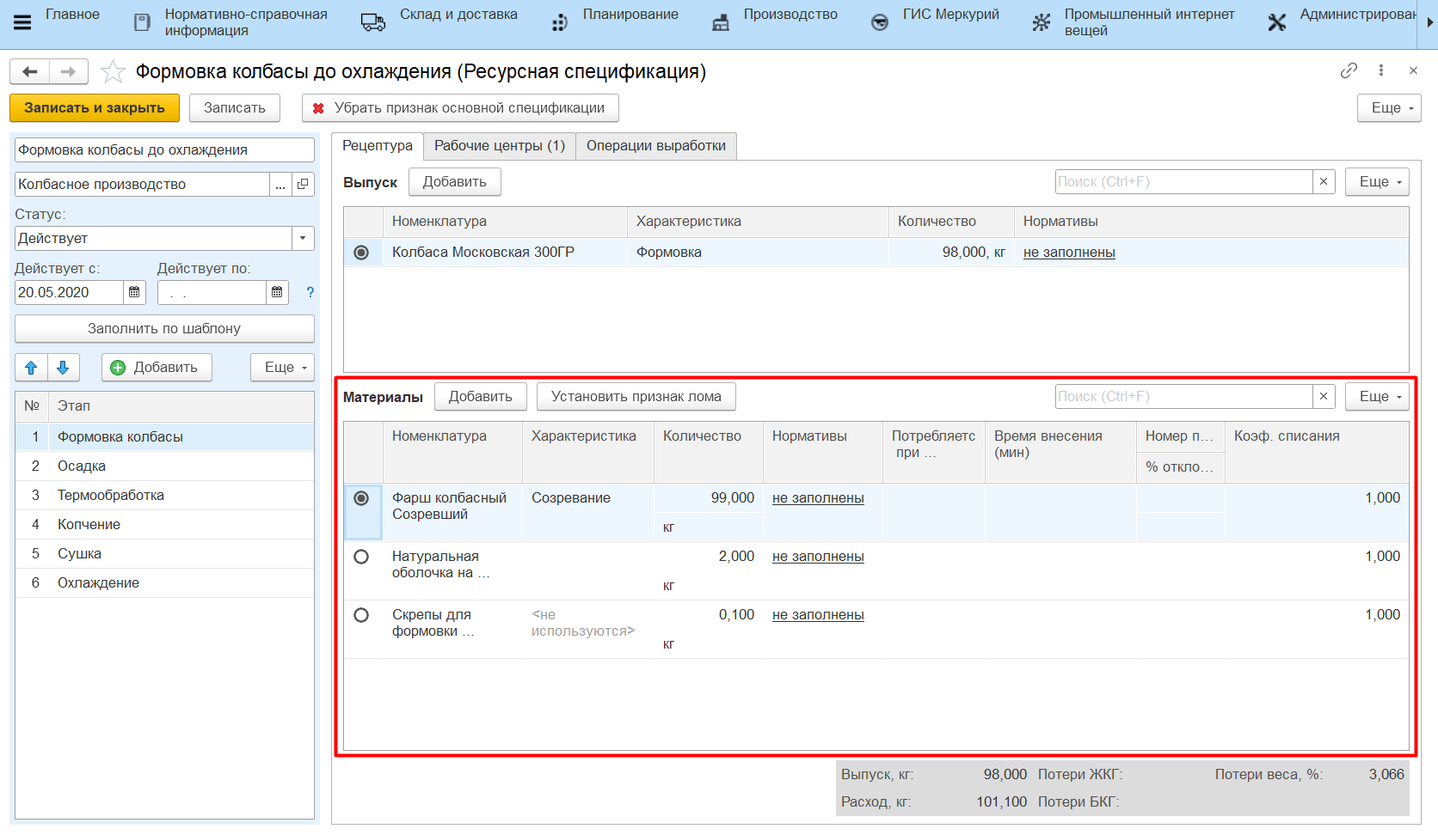
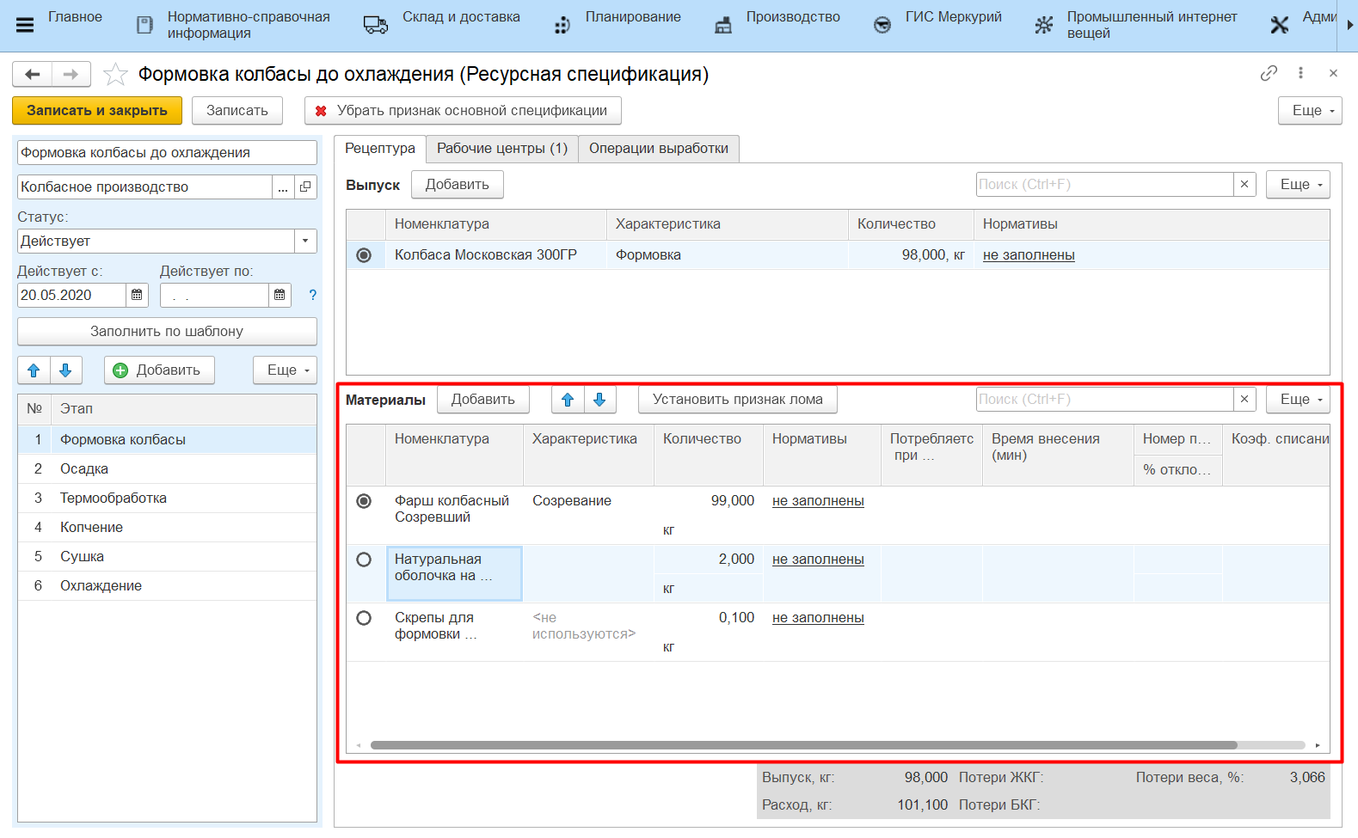
new: релиз справки 2.0.20.1

diff --git a/docs/Manufacture/Meat/CommonInformation/Handbooks/ResourceSpecTree/ResourceSpecTree.md b/docs/Manufacture/Meat/CommonInformation/Handbooks/ResourceSpecTree/ResourceSpecTree.md
@@ -1,0 +1,70 @@
+# Дерево ресурсных спецификаций
+
+После того, как все спецификации созданы, они сохраняются в статусе *"В разработке"*, затем их необходимо утвердить и назначить основными. Это можно сделать сразу на форме работы со спецификацией либо с помощью обработки **"Дерево ресурсных спецификаций"**. Перейти к данной обработке можно из раздела "Производство" -> "Учет производства":
+
+![](ResourceSpecTree.assets/image.png)
+
+Также обработка доступна из справочника **"Ресурсные спецификации"**:
+
+![](ResourceSpecTree.assets/image-1.png)
+
+Обработка позволяет проанализировать цепочку спецификаций, начиная от выбранной продукции, проверить объемы выпусков по спецификациям и выбрать те спецификации, которые нужно назначить действующими и основными. Также можно рассчитать количество материалов, которое должно быть потрачено на выпуск продукции по основной цепочке спецификаций.
+
+Первым шагом нужно выбрать номенклатуру и характеристику (если ведется учет по характеристикам), для которой нужно построить дерево спецификаций. После выбора дерево будет построено автоматически.
+
+![](ResourceSpecTree.assets/image-2.png)
+
+# Вкладка "Ресурсные спецификации"
+
+В табличной части показывается:
+
+- Спецификация;
+- Статус спецификации;
+- Период действия спецификации;
+- Номенклатура выпуска по спецификации;
+- Объем выпускаемой номенклатуры по спецификации, единица измерения.
+
+Для дерева можно настроить фильтры:
+
+- Не показывать закрытые - отбор по действующим спецификациям и спецификациям в разработке;
+- Не показывать в разработке - отбор по действующим спецификациям;
+- Показывать только основные - отбор по основным спецификациям.
+
+![](ResourceSpecTree.assets/image-3.png)
+![](ResourceSpecTree.assets/image-4.png)
+
+Цепочку спецификаций также можно сворачивать до разных уровней:
+
+![](ResourceSpecTree.assets/image-5.png)
+
+На последнем примере видно, что для одной и той же номенклатуры выпуска (Колбаса Московская 300 ГР / Охлаждение) действуют две спецификации, при этом только одна из них является основной. Для каждой из этих спецификаций построена своя цепочка разузлования по спецификациям полуфабрикатов. 
+
+Для того, чтобы назначить спецификацию, которая находится в статусе *"В разработке"*, действующей, нужно дважды кликнуть по полю в колонке "Действует" и поставить галочку. Таким же образом можно назначить спецификацию основной. Затем нужно нажать **"Сохранить"**. После сохранения статус спецификации сменится, и дерево будет обновлено. 
+
+![](ResourceSpecTree.assets/1.gif)
+
+!!! info "Важно"
+    - Только действующую спецификацию можно назначить основной;
+    - Спецификация начнет действовать с даты, которая указана в колонке "Период действия";
+    - Можно утверждать сразу несколько спецификаций. Для этого отметьте галочками все спецификации, которые нужно назначить действующими, а затем сохраните;
+    - Для одной номенклатуры выпуска может быть задана только одна основная спецификация:
+
+![](ResourceSpecTree.assets/2.gif)
+
+# Вкладка "Используемые материалы"
+
+В табличной части показывается:
+
+- Какие номенклатуры входят в цепочку изготовления продукции на всех уровнях (прослеживаемость по материалам собирается только по основным спецификациям);
+- Количество материала.
+
+![](ResourceSpecTree.assets/image-6.png)
+
+Для того, чтобы пересчитать количество материалов на другой объем выпуска, нужно указать плановый объем выпуска в поле *"Рассчитать от"*, тогда дерево будет пересчитано. Вернуться к изначальному варианту дерева можно по кнопке "Х" в поле *"Рассчитать от"*.
+
+![](ResourceSpecTree.assets/image-7.png)
+
+Отбор по типу воспроизводства "Покупка" покажет только те материалы, которые закупаются для производства выбранной продукции.
+
+![](ResourceSpecTree.assets/image-8.png)
+

diff --git a/docs/Manufacture/Milk/CommonInformation/Handbooks/ResourceSpecTree/ResourceSpecTree.md b/docs/Manufacture/Milk/CommonInformation/Handbooks/ResourceSpecTree/ResourceSpecTree.md
@@ -1,0 +1,70 @@
+# Дерево ресурсных спецификаций
+
+После того, как все спецификации созданы, они сохраняются в статусе *"В разработке"*, затем их необходимо утвердить и назначить основными. Это можно сделать сразу на форме работы со спецификацией либо с помощью обработки **"Дерево ресурсных спецификаций"**. Перейти к данной обработке можно из раздела "Производство" -> "Учет производства":
+
+![](ResourceSpecTree.assets/image.png)
+
+Также обработка доступна из справочника **"Ресурсные спецификации"**:
+
+![](ResourceSpecTree.assets/image-1.png)
+
+Обработка позволяет проанализировать цепочку спецификаций, начиная от выбранной продукции, проверить объемы выпусков по спецификациям и выбрать те спецификации, которые нужно назначить действующими и основными. Также можно рассчитать количество материалов, которое должно быть потрачено на выпуск продукции по основной цепочке спецификаций.
+
+Первым шагом нужно выбрать номенклатуру и характеристику (если ведется учет по характеристикам), для которой нужно построить дерево спецификаций. После выбора дерево будет построено автоматически.
+
+![](ResourceSpecTree.assets/image-2.png)
+
+# Вкладка "Ресурсные спецификации"
+
+В табличной части показывается:
+
+- Спецификация;
+- Статус спецификации;
+- Период действия спецификации;
+- Номенклатура выпуска по спецификации;
+- Объем выпускаемой номенклатуры по спецификации, единица измерения.
+
+Для дерева можно настроить фильтры:
+
+- Не показывать закрытые - отбор по действующим спецификациям и спецификациям в разработке;
+- Не показывать в разработке - отбор по действующим спецификациям;
+- Показывать только основные - отбор по основным спецификациям.
+
+![](ResourceSpecTree.assets/image-3.png)
+![](ResourceSpecTree.assets/image-4.png)
+
+Цепочку спецификаций также можно сворачивать до разных уровней:
+
+![](ResourceSpecTree.assets/image-5.png)
+
+На последнем примере видно, что для одной и той же номенклатуры выпуска (Колбаса Московская 300 ГР / Охлаждение) действуют две спецификации, при этом только одна из них является основной. Для каждой из этих спецификаций построена своя цепочка разузлования по спецификациям полуфабрикатов. 
+
+Для того, чтобы назначить спецификацию, которая находится в статусе *"В разработке"*, действующей, нужно дважды кликнуть по полю в колонке "Действует" и поставить галочку. Таким же образом можно назначить спецификацию основной. Затем нужно нажать **"Сохранить"**. После сохранения статус спецификации сменится, и дерево будет обновлено. 
+
+![](ResourceSpecTree.assets/1.gif)
+
+!!! info "Важно"
+    - Только действующую спецификацию можно назначить основной;
+    - Спецификация начнет действовать с даты, которая указана в колонке "Период действия";
+    - Можно утверждать сразу несколько спецификаций. Для этого отметьте галочками все спецификации, которые нужно назначить действующими, а затем сохраните;
+    - Для одной номенклатуры выпуска может быть задана только одна основная спецификация:
+
+![](ResourceSpecTree.assets/2.gif)
+
+# Вкладка "Используемые материалы"
+
+В табличной части показывается:
+
+- Какие номенклатуры входят в цепочку изготовления продукции на всех уровнях (прослеживаемость по материалам собирается только по основным спецификациям);
+- Количество материала.
+
+![](ResourceSpecTree.assets/image-6.png)
+
+Для того, чтобы пересчитать количество материалов на другой объем выпуска, нужно указать плановый объем выпуска в поле *"Рассчитать от"*, тогда дерево будет пересчитано. Вернуться к изначальному варианту дерева можно по кнопке "Х" в поле *"Рассчитать от"*.
+
+![](ResourceSpecTree.assets/image-7.png)
+
+Отбор по типу воспроизводства "Покупка" покажет только те материалы, которые закупаются для производства выбранной продукции.
+
+![](ResourceSpecTree.assets/image-8.png)
+

diff --git a/docs/Manufacture/Cheese/CommonInformation/Handbooks/ResourceSpecTree/ResourceSpecTree.md b/docs/Manufacture/Cheese/CommonInformation/Handbooks/ResourceSpecTree/ResourceSpecTree.md
@@ -1,0 +1,70 @@
+# Дерево ресурсных спецификаций
+
+После того, как все спецификации созданы, они сохраняются в статусе *"В разработке"*, затем их необходимо утвердить и назначить основными. Это можно сделать сразу на форме работы со спецификацией либо с помощью обработки **"Дерево ресурсных спецификаций"**. Перейти к данной обработке можно из раздела "Производство" -> "Учет производства":
+
+![](ResourceSpecTree.assets/image.png)
+
+Также обработка доступна из справочника **"Ресурсные спецификации"**:
+
+![](ResourceSpecTree.assets/image-1.png)
+
+Обработка позволяет проанализировать цепочку спецификаций, начиная от выбранной продукции, проверить объемы выпусков по спецификациям и выбрать те спецификации, которые нужно назначить действующими и основными. Также можно рассчитать количество материалов, которое должно быть потрачено на выпуск продукции по основной цепочке спецификаций.
+
+Первым шагом нужно выбрать номенклатуру и характеристику (если ведется учет по характеристикам), для которой нужно построить дерево спецификаций. После выбора дерево будет построено автоматически.
+
+![](ResourceSpecTree.assets/image-2.png)
+
+# Вкладка "Ресурсные спецификации"
+
+В табличной части показывается:
+
+- Спецификация;
+- Статус спецификации;
+- Период действия спецификации;
+- Номенклатура выпуска по спецификации;
+- Объем выпускаемой номенклатуры по спецификации, единица измерения.
+
+Для дерева можно настроить фильтры:
+
+- Не показывать закрытые - отбор по действующим спецификациям и спецификациям в разработке;
+- Не показывать в разработке - отбор по действующим спецификациям;
+- Показывать только основные - отбор по основным спецификациям.
+
+![](ResourceSpecTree.assets/image-3.png)
+![](ResourceSpecTree.assets/image-4.png)
+
+Цепочку спецификаций также можно сворачивать до разных уровней:
+
+![](ResourceSpecTree.assets/image-5.png)
+
+На последнем примере видно, что для одной и той же номенклатуры выпуска (Смесь нормализованная 50%) действуют две спецификации, при этом только одна из них является основной. Для каждой из этих спецификаций построена своя цепочка разузлования по спецификациям полуфабрикатов. 
+
+Для того, чтобы назначить спецификацию, которая находится в статусе *"В разработке"*, действующей, нужно дважды кликнуть по полю в колонке "Действует" и поставить галочку. Таким же образом можно назначить спецификацию основной. Затем нужно нажать **"Сохранить"**. После сохранения статус спецификации сменится, и дерево будет обновлено. 
+
+![](ResourceSpecTree.assets/1.gif)
+
+!!! info "Важно"
+    - Только действующую спецификацию можно назначить основной;
+    - Спецификация начнет действовать с даты, которая указана в колонке "Период действия";
+    - Можно утверждать сразу несколько спецификаций. Для этого отметьте галочками все спецификации, которые нужно назначить действующими, а затем сохраните;
+    - Для одной номенклатуры выпуска может быть задана только одна основная спецификация:
+
+![](ResourceSpecTree.assets/2.gif)
+
+# Вкладка "Используемые материалы"
+
+В табличной части показывается:
+
+- Какие номенклатуры входят в цепочку изготовления продукции на всех уровнях (прослеживаемость по материалам собирается только по основным спецификациям);
+- Количество материала.
+
+![](ResourceSpecTree.assets/image-6.png)
+
+Для того, чтобы пересчитать количество материалов на другой объем выпуска, нужно указать плановый объем выпуска в поле *"Рассчитать от"*, тогда дерево будет пересчитано. Вернуться к изначальному варианту дерева можно по кнопке "Х" в поле *"Рассчитать от"*.
+
+![](ResourceSpecTree.assets/image-7.png)
+
+Отбор по типу воспроизводства "Покупка" покажет только те материалы, которые закупаются для производства выбранной продукции.
+
+![](ResourceSpecTree.assets/image-8.png)
+

diff --git a/docs/Manufacture/Milk/CommonInformation/Handbooks/ResourceSpecifications/ResourceSpecifications.md b/docs/Manufacture/Milk/CommonInformation/Handbooks/ResourceSpecifications/ResourceSpecifications.md
@@ -55,20 +55,20 @@
 ## Вкладка "Рецептура"
 ### Табличная часть "Выходные изделия"
 
-![](ResourceSpecifications.assets/1.png)
+![](ResourceSpecifications.assets/image-2.png)
 
-Содержит перечень выходных изделий этапа (**одно** основное изделие, сколько угодно побочных изделий и возвратных отходов) и их количество. Нормативное содержание жира и белка выходного изделия заполняется по необходимости. Доля стоимости рассчитывается автоматически; если выпуск на этапе один, то можно указать "1" (единицу).
+Содержит перечень выходных изделий этапа (**одно** основное изделие, сколько угодно побочных изделий и возвратных отходов) и их количество. Нормативное содержание жира и белка выходного изделия заполняется по необходимости.
 
 Если система открыта с лицензией на расчет себестоимости и если использование механизма расчета себестоимости включено в [настройках учета](../SettingOfAccounting/SettingOfAccounting.md), то в табличной части также появится колонка "Доля стоимости". Доля стоимости рассчитывается автоматически; если выпуск на этапе один, то можно указать "1" (единицу).
 
 ### Табличная часть "Материалы"
 
-![](ResourceSpecifications.assets/2.png)
+![](ResourceSpecifications.assets/image-3.png)
 
 - Номенклатура/Характеристика/Количество - на каждом этапе может быть только один основной материал. Например, на этапе варки сыра - это смесь;
 - БКГ, ЖКГ - определяются в рамках каждой номенклатуры по ссылке *"Нормативы"*. Затем, соответственно, подтягиваются в спецификацию, по ним считается нормативное количество потерь в ЖКГ и БКГ для данного этапа:
 
-![](ResourceSpecifications.assets/3.png)
+![](ResourceSpecifications.assets/image-4.png)
 
 - Потребляется при выпуске - если выпусков может быть несколько на этапе, и при этом на эти выпуски по норме тратятся разные материалы, то можно указать все материалы, разделив их потребление с использованием данного столбца.
 - Статья затрат - сырьевая статья затрат, по которой материал будет посчитан при расчете сырьевой себестоимости.
@@ -76,6 +76,9 @@
 - Время внесения (мин) - определяет нормативное время внесения ингредиента, считается от начала этапа. Чтобы сравнивать фактическое с нормативным, у партии продукции должно быть заполнено время начала. Заполнение происходит через АРМ "Работа с заданиями" при работе с ТСД (пользователь с ролью "Работа с ТСД").
 - Коэф. списания - определяет, в каком соотношении списывать вторую единицу измерения материала на вторую единицу измерения выпуска. По умолчанию всегда равен 1. Изменить его можно только в случае, если и у материала, и у выпуска есть доп.единицы измерения. 
 - % отклонения - возможный процент отклонения от указанного количества материала при выпуске указанного объема продукции этапа.
+
+!!! info ""
+    Стрелочками на панели материалов можно менять порядок строк. При выполнении наборки по рецептуре пользователь будет видеть строки материалов, которые нужно взвесить, по заданному порядку: первым всегда показывается основной материал, далее по установленному порядку из таблицы материалов в спецификации.
 
 ## Вкладка "Рабочие центры"
 

diff --git a/docs/Manufacture/Cheese/CommonInformation/Handbooks/ResourceSpecifications/ResourceSpecifications.md b/docs/Manufacture/Cheese/CommonInformation/Handbooks/ResourceSpecifications/ResourceSpecifications.md
@@ -36,7 +36,7 @@
 !!! info "Важно"
     Дата окончания действия спецификации **не включается** в период её действия. Например, если спецификация действует по 31.01, то последний день, когда с ней можно работать - 30.01 до 23:59.
 
-![](ResourceSpecifications.assets/7.png) 
+![](ResourceSpecifications.assets/7.png)
 
 ## Табличная часть "Этапы"
 
@@ -55,7 +55,7 @@
 ## Вкладка "Рецептура"
 ### Табличная часть "Выходные изделия"
 
-![](ResourceSpecifications.assets/1.png)
+![](ResourceSpecifications.assets/image-2.png)
 
 Содержит перечень выходных изделий этапа (**одно** основное изделие, сколько угодно побочных изделий и возвратных отходов) и их количество. Нормативное содержание жира и белка выходного изделия заполняется по необходимости. 
 
@@ -63,12 +63,12 @@
 
 ### Табличная часть "Материалы"
 
-![](ResourceSpecifications.assets/2.png)
+![](ResourceSpecifications.assets/image-3.png)
 
 - Номенклатура/Характеристика/Количество - на каждом этапе может быть только один основной материал. Например, на этапе варки сыра - это смесь;
 - БКГ, ЖКГ - определяются в рамках каждой номенклатуры по ссылке *"Нормативы"*. Затем, соответственно, подтягиваются в спецификацию, по ним считается нормативное количество потерь в ЖКГ и БКГ для данного этапа:
 
-![](ResourceSpecifications.assets/3.png)
+![](ResourceSpecifications.assets/image-4.png)
 
 - Потребляется при выпуске - если выпусков может быть несколько на этапе, и при этом на эти выпуски по норме тратятся разные материалы, то можно указать все материалы, разделив их потребление с использованием данного столбца.
 - Статья затрат - сырьевая статья затрат, по которой материал будет посчитан при расчете сырьевой себестоимости (доступно при включенном механизме расчета себестоимости).
@@ -76,6 +76,9 @@
 - Время внесения (мин) - определяет нормативное время внесения ингредиента, считается от начала этапа. Чтобы сравнивать фактическое с нормативным, у партии продукции должно быть заполнено время начала. Пока что применяется только для сыра на этапе варки, заполнение происходит через АРМ "Работа с заданиями" через ТСД (пользователь с ролью "Работа с ТСД"). Пример - ["Учет времени внесения ингредиентов"](../../../SemiHardCheese/CookingCheese/Ingredients/AccountingTSD/AccountingTSD.md).
 - Коэф. списания - определяет, в каком соотношении списывать вторую единицу измерения материала на вторую единицу измерения выпуска. По умолчанию всегда равен 1. Изменить его можно только в случае, если и у материала, и у выпуска есть доп.единицы измерения. 
 - % отклонения - возможный процент отклонения от указанного количества материала при выпуске указанного объема продукции этапа.
+
+!!! info ""
+    Стрелочками на панели материалов можно менять порядок строк. При выполнении наборки по рецептуре пользователь будет видеть строки материалов, которые нужно взвесить, по заданному порядку: первым всегда показывается основной материал, далее по установленному порядку из таблицы материалов в спецификации.
 
 ## Вкладка "Рабочие центры"
 

diff --git a/docs/Manufacture/Meat/CommonInformation/Handbooks/ResourceSpecifications/ResourceSpecifications.md b/docs/Manufacture/Meat/CommonInformation/Handbooks/ResourceSpecifications/ResourceSpecifications.md
@@ -73,6 +73,9 @@
 - Коэф. списания - определяет, в каком соотношении списывать вторую единицу измерения материала на вторую единицу измерения выпуска. По умолчанию всегда равен 1. Изменить его можно только в случае, если и у материала, и у выпуска есть доп.единицы измерения. 
 - % отклонения - возможный процент отклонения от указанного количества материала при выпуске указанного объема продукции этапа.
 
+!!! info ""
+    Стрелочками на панели материалов можно менять порядок строк. При выполнении наборки по рецептуре пользователь будет видеть строки материалов, которые нужно взвесить, по заданному порядку: первым всегда показывается основной материал, далее по установленному порядку из таблицы материалов в спецификации.
+
 ## Вкладка "Рабочие центры"
 
 Для каждого из созданных этапов на вкладке указывается перечень рабочих центров, на которых выпускается продукция из списка выпусков этапа.

diff --git a/docs/Manufacture/Milk/MilkReceiving/LaboratoryAnalysisOfMilk/LaboratoryAnalysisOfMilk.md b/docs/Manufacture/Milk/MilkReceiving/LaboratoryAnalysisOfMilk/LaboratoryAnalysisOfMilk.md
@@ -33,7 +33,7 @@
 
 - В случае обнаружения некачественного молока в какой-либо из секций машины, при заполнении информации по этой секции установить галочку **"Возврат поставщику"**:
 
-![](LaboratoryAnalysisOfMilk.assets/1.png)
+![](LaboratoryAnalysisOfMilk.assets/image.png)
 
 - Нажать **"Записать"**. Даже если выведется сообщение о том, что сорт не удалось определить, при записи данные сохранятся.
 - При необходимости можно распечатать **"Акт о расхождениях"**, куда подтянется разница по заявленным и фактическим показателям по секциям:

diff --git a/docs/Manufacture/Cheese/CommonInformation/Handbooks/readme.md b/docs/Manufacture/Cheese/CommonInformation/Handbooks/readme.md
@@ -6,3 +6,4 @@
 - [Рабочие центры и склады](WorkCentresAndWarehouses/WorkCentresAndWarehouses.md)
 - [Шаблоны ресурсных спецификаций](TemplateOfResourceSpecifications/TemplateOfResourceSpecifications.md)
 - [Ресурсные спецификации](ResourceSpecifications/ResourceSpecifications.md)
+- [Дерево ресурсных спецификаций](ResourceSpecTree/ResourceSpecTree.md)

diff --git a/docs/Manufacture/Meat/CommonInformation/Handbooks/readme.md b/docs/Manufacture/Meat/CommonInformation/Handbooks/readme.md
@@ -6,3 +6,4 @@
 - [Рабочие центры и склады](WorkCentresAndWarehouses/WorkCentresAndWarehouses.md)
 - [Шаблоны ресурсных спецификаций](TemplateOfResourceSpecifications/TemplateOfResourceSpecifications.md)
 - [Ресурсные спецификации](ResourceSpecifications/ResourceSpecifications.md)
+- [Дерево ресурсных спецификаций](ResourceSpecTree/ResourceSpecTree.md)

diff --git a/docs/Manufacture/Milk/CommonInformation/Handbooks/readme.md b/docs/Manufacture/Milk/CommonInformation/Handbooks/readme.md
@@ -6,3 +6,4 @@
 - [Рабочие центры и склады](WorkCentresAndWarehouses/WorkCentresAndWarehouses.md)
 - [Шаблоны ресурсных спецификаций](TemplateOfResourceSpecifications/TemplateOfResourceSpecifications.md)
 - [Ресурсные спецификации](ResourceSpecifications/ResourceSpecifications.md)
+- [Дерево ресурсных спецификаций](ResourceSpecTree/ResourceSpecTree.md)
